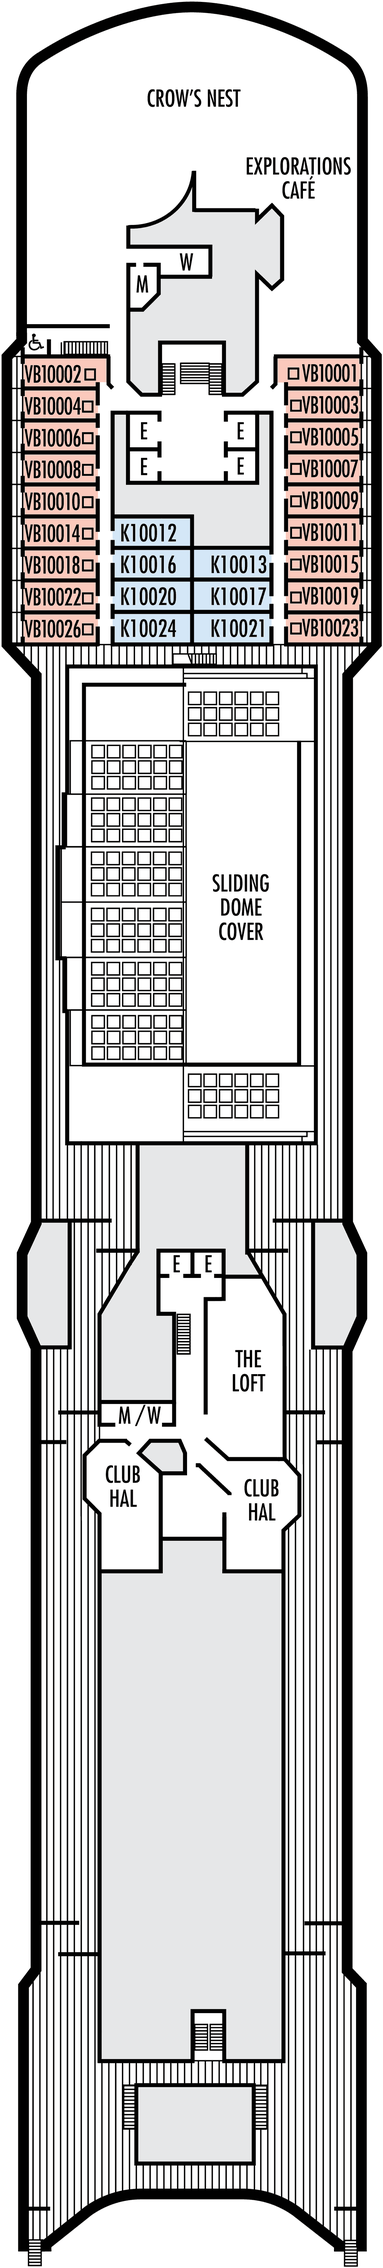
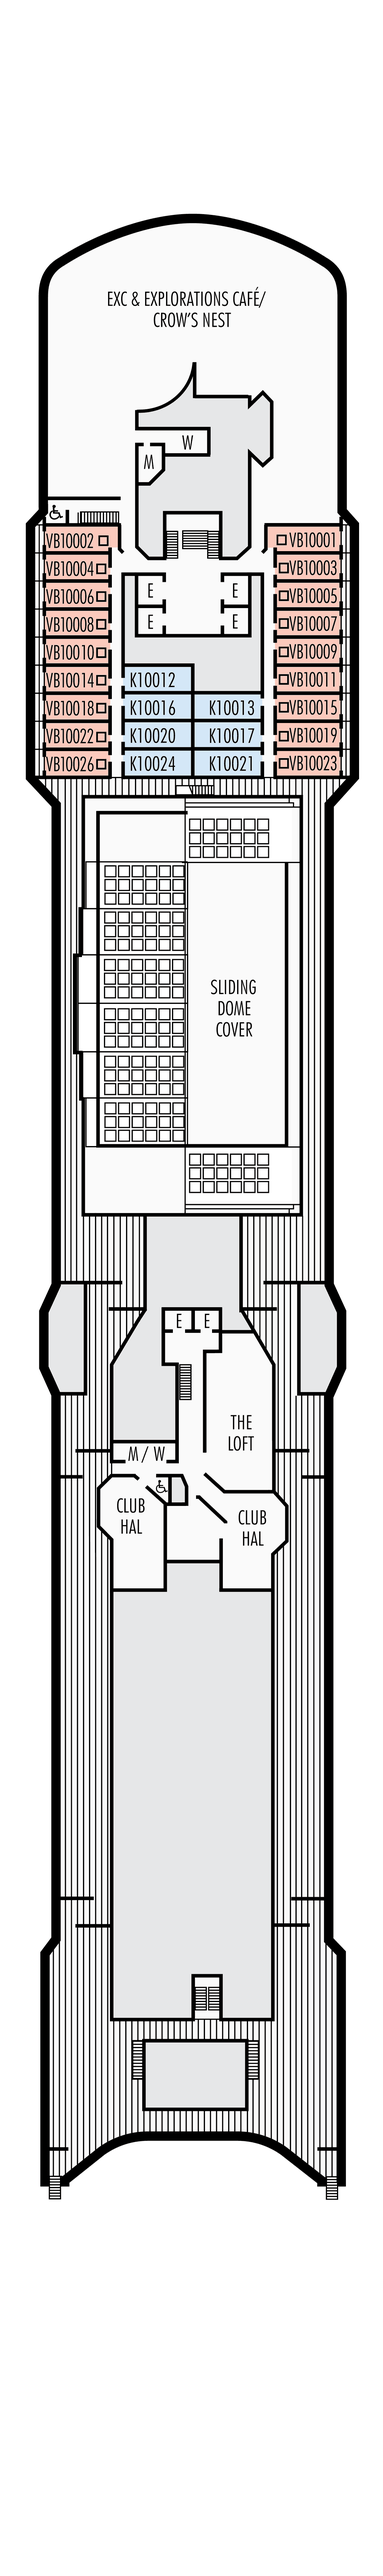
Final version updates
* New deck plans (thanks @ralykam and @rangerrick)
* Remove the "fake network error" code from release builds, since some people were hitting it (!)
* Add alternative host names to the settings just in case
* Fix username regexps
* Fix random HTML escaping appearing in notifications

diff --git a/test/views/deck_plans_test.dart b/test/views/deck_plans_test.dart
@@ -38,55 +38,55 @@ void main() {
     await tester.tap(find.byIcon(Icons.directions_boat));
     await tester.pump();
     await tester.pump(const Duration(seconds: 1));
-    final double height = tester.getRect(elevatorFinder).height / 10.0;
+    final double height = tester.getRect(elevatorFinder).height / 11.0;
 
-    expectOpacities(tester, <double>[1.0, 0.0, 0.0, 0.0, 0.0, 0.0, 0.0, 0.0, 0.0, 0.0]);
+    expectOpacities(tester, <double>[1.0, 0.0, 0.0, 0.0, 0.0, 0.0, 0.0, 0.0, 0.0, 0.0, 0.0]);
 
     await tester.tap(find.text('3'));
     await tester.pump();
     await tester.pump(const Duration(seconds: 1));
-    expectOpacities(tester, <double>[0.0, 0.0, 1.0, 0.0, 0.0, 0.0, 0.0, 0.0, 0.0, 0.0]);
+    expectOpacities(tester, <double>[0.0, 0.0, 1.0, 0.0, 0.0, 0.0, 0.0, 0.0, 0.0, 0.0, 0.0]);
 
     await tester.dragFrom(tester.getCenter(find.text('5')), Offset(0.0, -height - kDragSlopDefault));
     await tester.pump();
     await tester.pump(const Duration(seconds: 1));
-    expectOpacities(tester, <double>[0.0, 0.0, 0.0, 1.0, 0.0, 0.0, 0.0, 0.0, 0.0, 0.0]);
+    expectOpacities(tester, <double>[0.0, 0.0, 0.0, 1.0, 0.0, 0.0, 0.0, 0.0, 0.0, 0.0, 0.0]);
 
     await tester.dragFrom(tester.getCenter(find.text('5')), Offset(0.0, -height * 1.6 - kDragSlopDefault));
     await tester.pump();
     await tester.pump(const Duration(seconds: 1));
-    expectOpacities(tester, <double>[0.0, 0.0, 0.0, 0.0, 0.0, 1.0, 0.0, 0.0, 0.0, 0.0]);
+    expectOpacities(tester, <double>[0.0, 0.0, 0.0, 0.0, 0.0, 1.0, 0.0, 0.0, 0.0, 0.0, 0.0]);
 
     await tester.dragFrom(tester.getCenter(find.text('5')), Offset(0.0, -height * 1.1 - kDragSlopDefault));
     await tester.pump();
     await tester.pump(const Duration(seconds: 1));
-    expectOpacities(tester, <double>[0.0, 0.0, 0.0, 0.0, 0.0, 0.0, 1.0, 0.0, 0.0, 0.0]);
+    expectOpacities(tester, <double>[0.0, 0.0, 0.0, 0.0, 0.0, 0.0, 1.0, 0.0, 0.0, 0.0, 0.0]);
 
     await tester.flingFrom(tester.getCenter(find.text('5')), Offset(0.0, -height * 1.1 - kDragSlopDefault), 1000.0);
     await tester.pump();
     await tester.pump(const Duration(seconds: 1));
-    expectOpacities(tester, <double>[0.0, 0.0, 0.0, 0.0, 0.0, 0.0, 0.0, 0.0, 1.0, 0.0]);
+    expectOpacities(tester, <double>[0.0, 0.0, 0.0, 0.0, 0.0, 0.0, 0.0, 0.0, 1.0, 0.0, 0.0]);
 
     await tester.dragFrom(tester.getCenter(find.text('5')), Offset(0.0, height * 7.1 + kDragSlopDefault));
     await tester.pump();
     await tester.pump(const Duration(seconds: 1));
-    expectOpacities(tester, <double>[0.0, 1.0, 0.0, 0.0, 0.0, 0.0, 0.0, 0.0, 0.0, 0.0]);
+    expectOpacities(tester, <double>[0.0, 1.0, 0.0, 0.0, 0.0, 0.0, 0.0, 0.0, 0.0, 0.0, 0.0]);
 
     await tester.flingFrom(tester.getCenter(find.text('5')), Offset(0.0, -height * 7.1 - kDragSlopDefault), 1000.0);
     await tester.pump();
     await tester.pump(const Duration(seconds: 1));
-    expectOpacities(tester, <double>[0.0, 0.0, 0.0, 0.0, 0.0, 0.0, 0.0, 0.0, 0.0, 1.0]);
+    expectOpacities(tester, <double>[0.0, 0.0, 0.0, 0.0, 0.0, 0.0, 0.0, 0.0, 0.0, 1.0, 0.0]);
 
     await tester.flingFrom(tester.getCenter(find.text('5')), Offset(0.0, height * 6.2 + kDragSlopDefault), 1000.0);
     await tester.pump();
     await tester.pump(const Duration(seconds: 1));
-    expectOpacities(tester, <double>[0.0, 0.0, 1.0, 0.0, 0.0, 0.0, 0.0, 0.0, 0.0, 0.0]);
+    expectOpacities(tester, <double>[0.0, 0.0, 1.0, 0.0, 0.0, 0.0, 0.0, 0.0, 0.0, 0.0, 0.0]);
 
     final TestGesture gesture = await tester.startGesture(tester.getCenter(find.text('9')));
     await gesture.moveBy(const Offset(0.0, kDragSlopDefault));
     await gesture.moveBy(Offset(0.0, height * 0.5));
     await tester.pump();
-    expectOpacities(tester, <double>[0.0, 0.5, 0.5, 0.0, 0.0, 0.0, 0.0, 0.0, 0.0, 0.0]);
+    expectOpacities(tester, <double>[0.0, 0.5, 0.5, 0.0, 0.0, 0.0, 0.0, 0.0, 0.0, 0.0, 0.0]);
 
     await tester.pumpWidget(const Placeholder());
     model.dispose();

diff --git a/lib/src/views/deck_plans.dart b/lib/src/views/deck_plans.dart
@@ -1,7 +1,6 @@
-import 'dart:math' as math;
-
 import 'package:flutter/foundation.dart';
 import 'package:flutter/material.dart';
+import 'package:photo_view/photo_view.dart';
 
 import '../models/server_status.dart';
 import '../widgets.dart';
@@ -31,7 +30,7 @@ class DeckPlanView extends StatefulWidget implements View {
 
 class _DeckPlanViewState extends State<DeckPlanView> with SingleTickerProviderStateMixin {
   static const int kMinDeck = 1;
-  static const int kMaxDeck = 10;
+  static const int kMaxDeck = 11;
 
   AnimationController _currentLevel;
   List<Widget> _decks, _buttons;
@@ -89,38 +88,27 @@ class _DeckPlanViewState extends State<DeckPlanView> with SingleTickerProviderSt
     );
   }
 
-  double _scale = 2.0;
-  double _dynamicScale = 1.0;
-
   @override
   Widget build(BuildContext context) {
     return Row(
       children: <Widget>[
         Expanded(
-          child: GestureDetector(
-            onScaleUpdate: (ScaleUpdateDetails details) {
-              setState(() { _dynamicScale = details.scale; });
-            },
-            onScaleEnd: (ScaleEndDetails details) {
-              setState(() { _scale = math.max(1.0, _scale * _dynamicScale); _dynamicScale = 1.0; });
-            },
+          child: ClipRect(
             child: LayoutBuilder(
               builder: (BuildContext context, BoxConstraints constraints) {
-                return SingleChildScrollView(
-                  child: SafeArea(
-                    child: ConstrainedBox(
-                      constraints: BoxConstraints(
-                        minWidth: 0.0,
-                        maxWidth: constraints.maxWidth,
-                        minHeight: constraints.maxHeight,
-                        maxHeight: constraints.maxHeight * math.max(1.0, _scale * _dynamicScale),
-                      ),
-                      child: Stack(
-                        alignment: Alignment.center,
-                        children: _decks,
-                      ),
-                    ),
+                final EdgeInsets padding = MediaQuery.of(context).padding;
+                return PhotoView.customChild(
+                  child: Stack(
+                    alignment: Alignment.center,
+                    children: _decks,
                   ),
+                  backgroundDecoration: BoxDecoration(
+                    color: Theme.of(context).canvasColor,
+                  ),
+                  childSize: padding.deflateSize(constraints.biggest),
+                  customSize: padding.deflateSize(constraints.biggest),
+                  initialScale: PhotoViewComputedScale.contained,
+                  minScale: PhotoViewComputedScale.contained,
                 );
               },
             ),

diff --git a/lib/src/views/settings.dart b/lib/src/views/settings.dart
@@ -113,6 +113,30 @@ class _SettingsState extends State<Settings> {
               onChanged: busy ? null : _apply,
             ),
             RadioListTile<TwitarrConfiguration>(
+              title: const Text('http://joco.hollandamerica.com/'),
+              groupValue: cruise.twitarrConfiguration,
+              value: const RestTwitarrConfiguration(baseUrl: 'http://joco.hollandamerica.com/'),
+              onChanged: busy ? null : _apply,
+            ),
+            RadioListTile<TwitarrConfiguration>(
+              title: const Text('http://jococruise.hollandamerica.com/'),
+              groupValue: cruise.twitarrConfiguration,
+              value: const RestTwitarrConfiguration(baseUrl: 'http://jococruise.hollandamerica.com/'),
+              onChanged: busy ? null : _apply,
+            ),
+            RadioListTile<TwitarrConfiguration>(
+              title: const Text('http://10.26.129.55/'),
+              groupValue: cruise.twitarrConfiguration,
+              value: const RestTwitarrConfiguration(baseUrl: 'http://10.26.129.55/'),
+              onChanged: busy ? null : _apply,
+            ),
+            RadioListTile<TwitarrConfiguration>(
+              title: const Text('http://10.26.129.56/'),
+              groupValue: cruise.twitarrConfiguration,
+              value: const RestTwitarrConfiguration(baseUrl: 'http://10.26.129.56/'),
+              onChanged: busy ? null : _apply,
+            ),
+            RadioListTile<TwitarrConfiguration>(
               title: TextField(
                 controller: _server,
                 focusNode: _serverFocus,
@@ -129,7 +153,7 @@ class _SettingsState extends State<Settings> {
                 decoration: InputDecoration(
                   labelText: 'Custom server URL',
                   hintText: 'http://twitarr.example.com:3000/',
-                  errorText: currentConfiguration is AutoTwitarrConfiguration || _isValid(_server.text) ? null : 'URL is not valid',
+                  errorText: _server.text.isEmpty || _isValid(_server.text) ? null : 'URL is not valid',
                 ),
               ),
               groupValue: currentConfiguration,

diff --git a/lib/src/logic/cruise.dart b/lib/src/logic/cruise.dart
@@ -139,8 +139,11 @@ class CruiseModel extends ChangeNotifier with WidgetsBindingObserver implements 
         _twitarr.dispose();
       }
       _twitarr = newConfiguration.createTwitarr();
-      _twitarr.debugLatency = _debugLatency;
-      _twitarr.debugReliability = _debugReliability;
+      assert(() {
+        _twitarr.debugLatency = _debugLatency;
+        _twitarr.debugReliability = _debugReliability;
+        return true;
+      }());
       if (!_onscreen)
         _twitarr.disable();
       _calendar.reset();
@@ -169,7 +172,10 @@ class CruiseModel extends ChangeNotifier with WidgetsBindingObserver implements 
   double _debugReliability = 1.0;
   set debugReliability(double value) {
     _debugReliability = value;
-    _twitarr.debugReliability = value;
+    assert(() {
+      _twitarr.debugReliability = value;
+      return true;
+    }());
     store.saveSetting(Setting.debugNetworkReliability, value);
     notifyListeners();
   }
@@ -187,10 +193,13 @@ class CruiseModel extends ChangeNotifier with WidgetsBindingObserver implements 
       try {
         final Map<Setting, dynamic> settings = await store.restoreSettings().asFuture();
         if (settings != null) {
-          if (settings.containsKey(Setting.debugNetworkLatency))
-            debugLatency = settings[Setting.debugNetworkLatency] as double;
-          if (settings.containsKey(Setting.debugNetworkReliability))
-            debugReliability = settings[Setting.debugNetworkReliability] as double;
+          assert(() {
+            if (settings.containsKey(Setting.debugNetworkLatency))
+              debugLatency = settings[Setting.debugNetworkLatency] as double;
+            if (settings.containsKey(Setting.debugNetworkReliability))
+              debugReliability = settings[Setting.debugNetworkReliability] as double;
+            return true;
+          }());
           if (settings.containsKey(Setting.server))
             selectTwitarrConfiguration(TwitarrConfiguration.from(settings[Setting.server] as String, const AutoTwitarrConfiguration()));
           if (settings.containsKey(Setting.debugTimeDilation)) {

diff --git a/lib/src/network/rest.dart b/lib/src/network/rest.dart
@@ -749,6 +749,7 @@ class RestTwitarr implements Twitarr {
     assert(credentials.key != null);
     final FormData body = FormData()
       ..add('key', credentials.key)
+      ..add('app', 'plain')
       ..add('unread', 'true');
     if (credentials.asMod)
       body.add('as_mod', 'true');
@@ -1936,8 +1937,11 @@ class RestTwitarr implements Twitarr {
         }());
         await _enabledCompleter.future;
       }
-      if (_random.nextDouble() > debugReliability)
-        throw const LocalError('Fake network failure');
+      assert(() {
+        if (_random.nextDouble() > debugReliability)
+          throw const LocalError('Fake network failure');
+        return true;
+      }());
       final HttpClientRequest request = await _client.openUrl(method, url);
       if (contentType != null)
         request.headers.contentType = contentType;
@@ -1951,7 +1955,13 @@ class RestTwitarr implements Twitarr {
           bodyParts.forEach(request.add);
       }
       final HttpClientResponse response = await request.close();
-      await Future<void>.delayed(Duration(milliseconds: debugLatency.round()));
+      Duration delay;
+      assert(() {
+        delay = Duration(milliseconds: debugLatency.round());
+        return true;
+      }());
+      if (delay != null)
+        await Future<void>.delayed(delay);
       if (!expectedStatusCodes.contains(response.statusCode)) {
         assert(() {
           response.transform(utf8.decoder).join().then((String result) {

diff --git a/lib/src/logic/background_polling.dart b/lib/src/logic/background_polling.dart
@@ -75,10 +75,13 @@ Future<void> _periodicCallback() async {
       final Map<Setting, dynamic> settings = await store.restoreSettings().asFuture();
       final String server = settings[Setting.server] as String;
       final Twitarr twitarr = TwitarrConfiguration.from(server, const AutoTwitarrConfiguration()).createTwitarr();
-      if (settings.containsKey(Setting.debugNetworkLatency))
-        twitarr.debugLatency = settings[Setting.debugNetworkLatency] as double;
-      if (settings.containsKey(Setting.debugNetworkReliability))
-        twitarr.debugReliability = settings[Setting.debugNetworkReliability] as double;
+      assert(() {
+        if (settings.containsKey(Setting.debugNetworkLatency))
+          twitarr.debugLatency = settings[Setting.debugNetworkLatency] as double;
+        if (settings.containsKey(Setting.debugNetworkReliability))
+          twitarr.debugReliability = settings[Setting.debugNetworkReliability] as double;
+        return true;
+      }());
       final Credentials credentials = await store.restoreCredentials().asFuture();
       await checkForMessages(credentials, twitarr, store);
     } on DatabaseException catch (error) {

diff --git a/lib/src/views/create_account.dart b/lib/src/views/create_account.dart
@@ -124,8 +124,7 @@ class _CreateAccountState extends State<CreateAccount> {
                             if (name.isNotEmpty) {
                               if (!AuthenticatedUser.isValidUsername(name))
                                 return 'User names must be alphabetic and between three and forty characters long.';
-                              if (!AuthenticatedUser.isValidDisplayName(name))
-                                return 'User names are also used as display names.';
+                              assert(AuthenticatedUser.isValidDisplayName(name), 'User names are also used as display names.');
                             }
                             return _latestServerResponse.fields[_AccountCreationField.username];
                           },

diff --git a/lib/src/views/user.dart b/lib/src/views/user.dart
@@ -337,7 +337,7 @@ class _UserViewState extends State<UserView> {
                           showAboutDialog(
                             context: context,
                             applicationName: 'Rainbow Monkey',
-                            applicationVersion: 'JoCo 2019 v1.5',
+                            applicationVersion: 'JoCo 2019 v1.6',
                             applicationIcon: Image.asset('images/cruise_monkey.png', width: 96.0),
                             children: <Widget>[
                             const Text('A project of the Seamonkey Social group.'),

diff --git a/test/logic/user_test.dart b/test/logic/user_test.dart
@@ -45,7 +45,7 @@ void main() {
     expect(AuthenticatedUser.isValidUsername('foo'), isTrue);
     expect(AuthenticatedUser.isValidUsername(' foo'), isFalse);
     expect(AuthenticatedUser.isValidUsername('foo '), isFalse);
-    expect(AuthenticatedUser.isValidUsername('f&o-o'), isTrue);
+    expect(AuthenticatedUser.isValidUsername('f&o-o'), isFalse);
     expect(AuthenticatedUser.isValidUsername('f+o=o'), isFalse);
   });
   testWidgets('AuthenticatedUser.isValidPassword', (WidgetTester tester) async {

diff --git a/lib/src/models/user.dart b/lib/src/models/user.dart
@@ -209,7 +209,7 @@ class AuthenticatedUser extends User {
   static bool isValidUsername(String username) {
     // https://github.com/seamonkeysocial/twitarr/blob/master/app/models/user.rb#L10
     assert(username != null);
-    return username.contains(RegExp(r'^[\w&-]{3,40}$'));
+    return username.contains(RegExp(r'^[\w]{3,40}$'));
   }
 
   static bool isValidPassword(String password, { bool allowShort = false }) {
